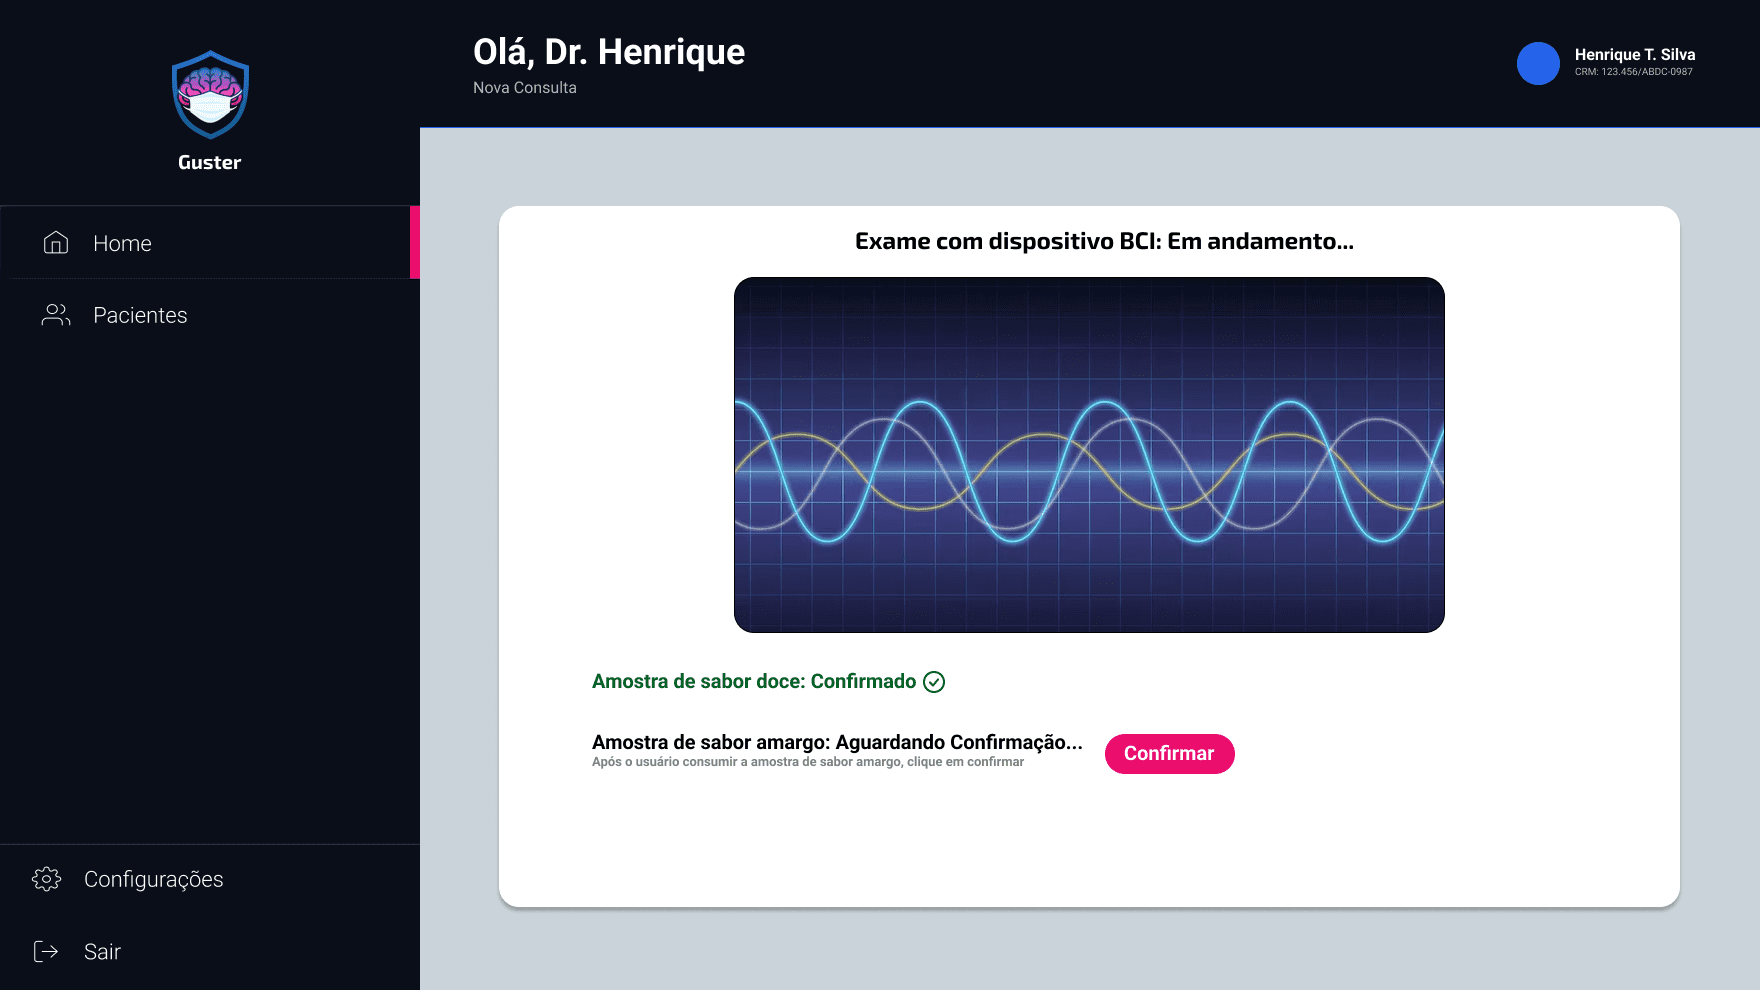
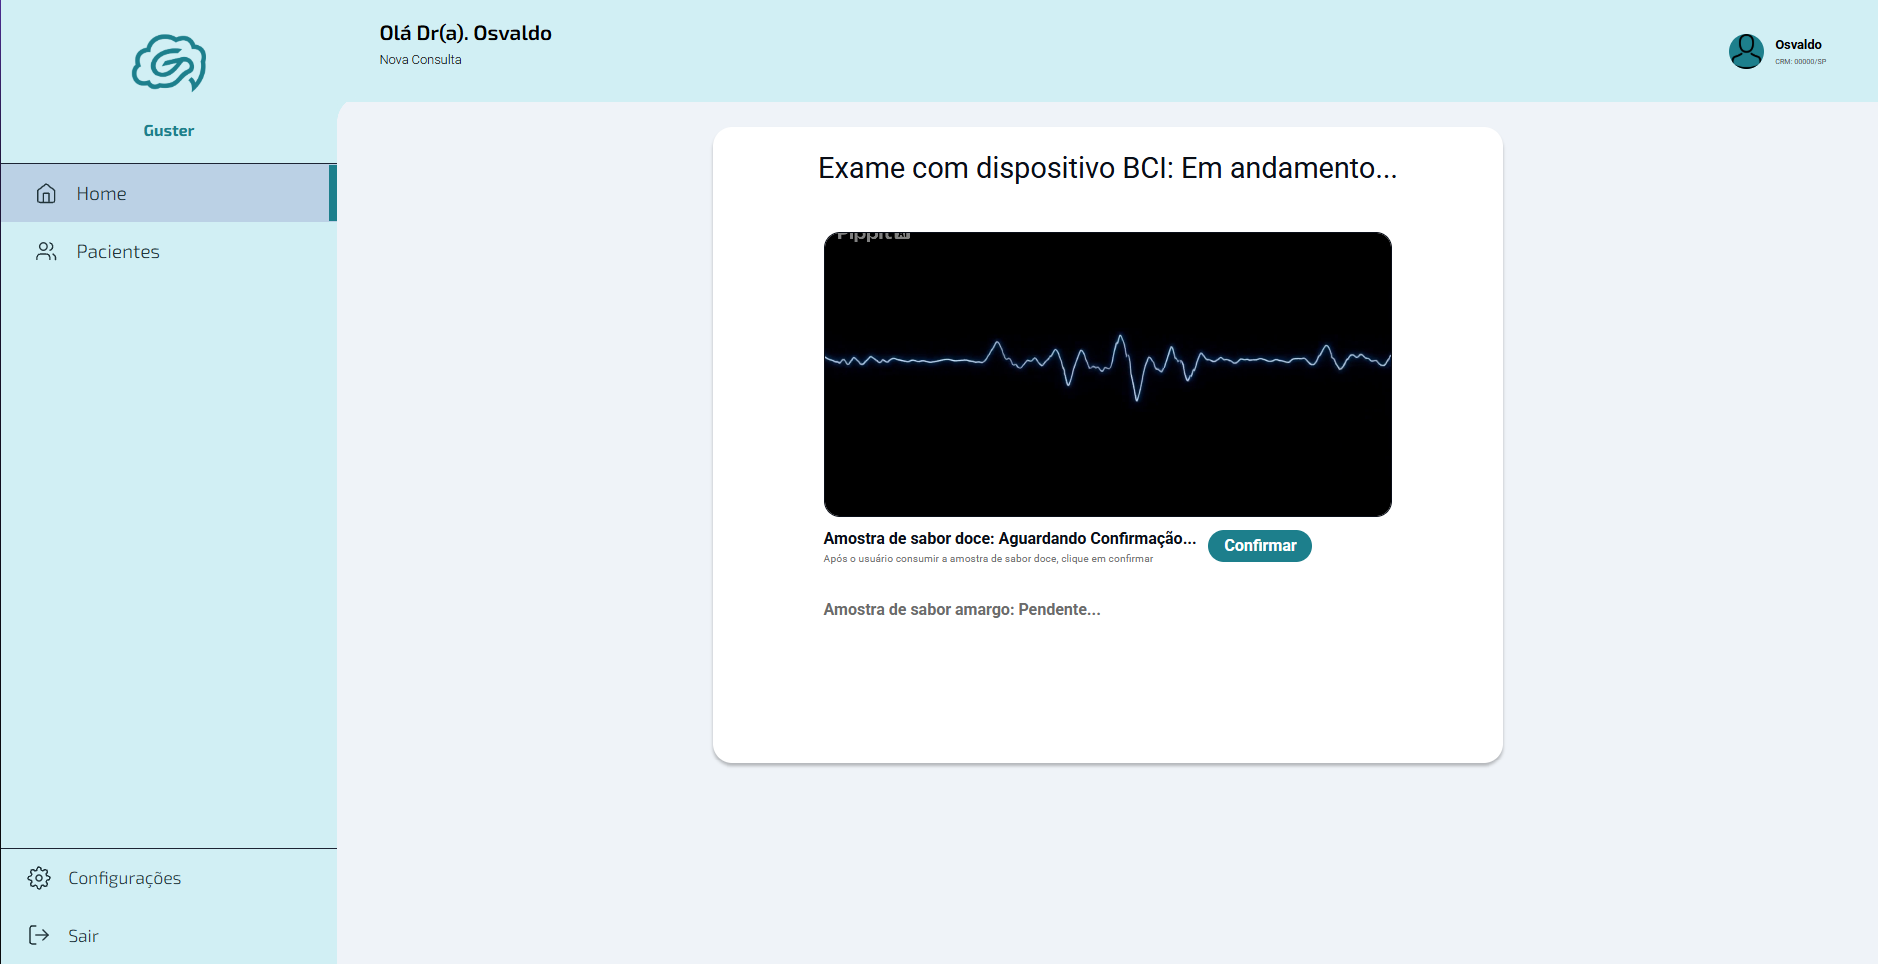
correção de cores das imagens

diff --git a/main/index.html b/main/index.html
@@ -166,12 +166,12 @@
           <!-- ESPAÇO RESERVADO PARA AS IMAGENS -->
           <div class="projeto-galeria">
             <div class="projeto-imagem-principal" id="principal">
-              <img width="100%" alt="" id="projeto-imagem-atual" src="imgs/Dashboard.png"
+              <img width="100%" alt="" id="projeto-imagem-atual" src="imgs/Resultados.png"
                 alt="Imagem principal do projeto" />
             </div>
             <div class="projeto-miniaturas">
               <div class="miniatura-projeto ativa">
-                <img src="imgs/Dashboard.png" alt="" />
+                <img src="imgs/Resultados.png" alt="" />
               </div>
               <div class="miniatura-projeto">
                 <img src="imgs/BCI.webp" alt="" />
@@ -455,5 +455,4 @@
   </footer>
   <script src="script.js"></script>
 </body>
-
 </html>
